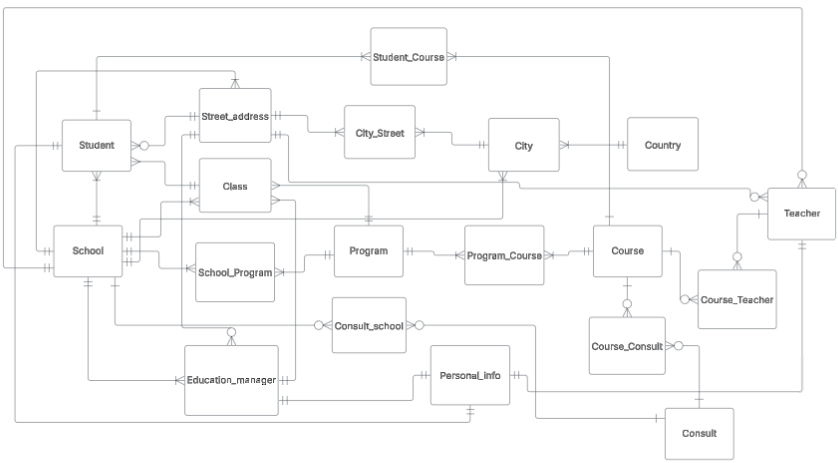
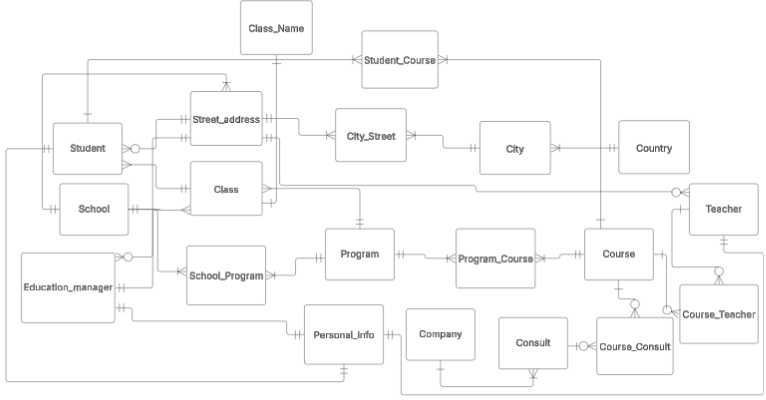
fortsätter...

diff --git a/yh_labb/Uppgift_0/uppgift_0.md b/yh_labb/Uppgift_0/uppgift_0.md
@@ -17,14 +17,10 @@
 - Student has a street address, a street address can have several students.
 - A street address can be in several Cities, a City has several street addresses (Many to many relationship handled with junctiontable City_Street)
 - A City belongs to one and only one Country, a Country has several cities (A city can be in several Countries (the City name) but in this case we only do Sweden)
-- A Student attends one and only one School at a time (business rule), a School has several Students
 - A Student attends one and only one class (Business rule), a Class has several Students
 - A Class belongs to one and only one Program, a Program has several Classes
 - A School can have multiple street addresses, a street address has only one school (YrkesCo don't have multiple schools on one street address)
-- A School has one or many Education managers, an education manager works in only one school (they don't work in both Stockholm and Gothenburg)
-- A School has at least one class, a class belongs to only one school
 - A school has several programs, a program can be taught in several schools (many to many relationship handled by junctiontable School_Program)
-- A School can have zero or several consultants, a consultant can work in zero or several schools (many to many handled by junctiontable Consult_School)
 - A Program has several courses, a course can be in several programs (many to many handled by junctiontable Program_Course)
 - A Course is taught by one or many Consultants, a consultant can be teaching zero or several courses (many-to-many handled by junctiontable Course_Consult)
 - A Student can be in one or several courses (courses not part of a program), a course can have one or many students (many to many handled by junctiontable Student_Course)
@@ -34,7 +30,8 @@
 - An Education manager can work at one and only one School, a School has zero or several Education managers
 - An Education manager has one and only one streetaddress, a streetaddress can have zero or many education managers
 - A Teacher have one and only one streetaddress, a streetaddress can have zero or several teachers
-- A School can ben be in one-or-many cities, a City can only have one yrkesco School (Business rule)
+- A Consult works at one and only one company, a Company can have many Consultants 
+
 
 ## d)
 
@@ -42,10 +39,11 @@
 
 ## e)
 
-<img src = "../../assets/physical_yrkesco.png" width=700>
-or see dmbl file called uppgift_0_e.dbml
+
+Se filen som heter  uppgift_0_e.dbml
 
 ## f)
 
 - Alla tabeller är i 1NF, eftersom det inte finns delbara eller upprepande grupper.
-- Alla tabeller är i 2NF, eftersom alla non-primary attribut är beroende av hela
+- Alla tabeller är i 2NF, eftersom alla non-primary attribut är beroende av hela primärnyckeln och inte bara delar av den
+- Alla tabeller är i 3NF eftersom inga av non-primary nycklarna är transitativt beroende av varandra
